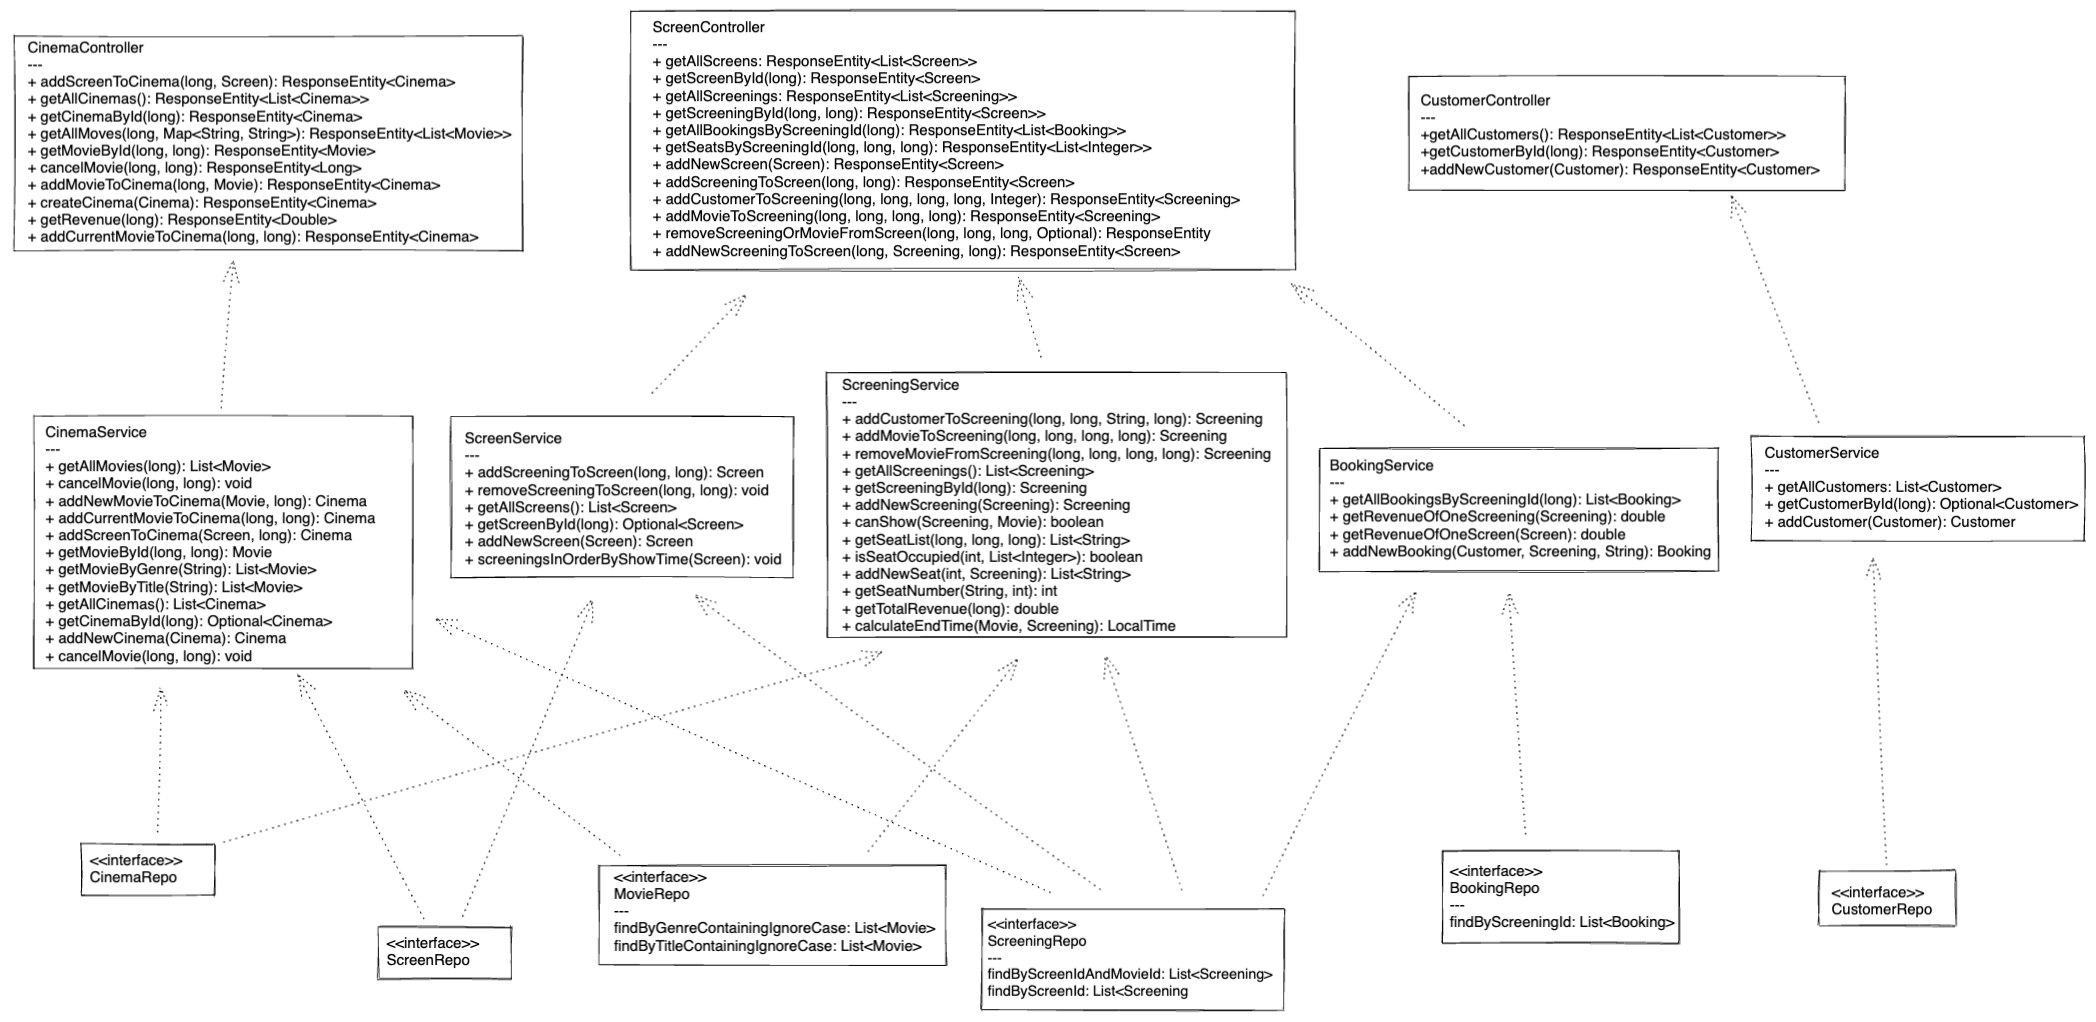
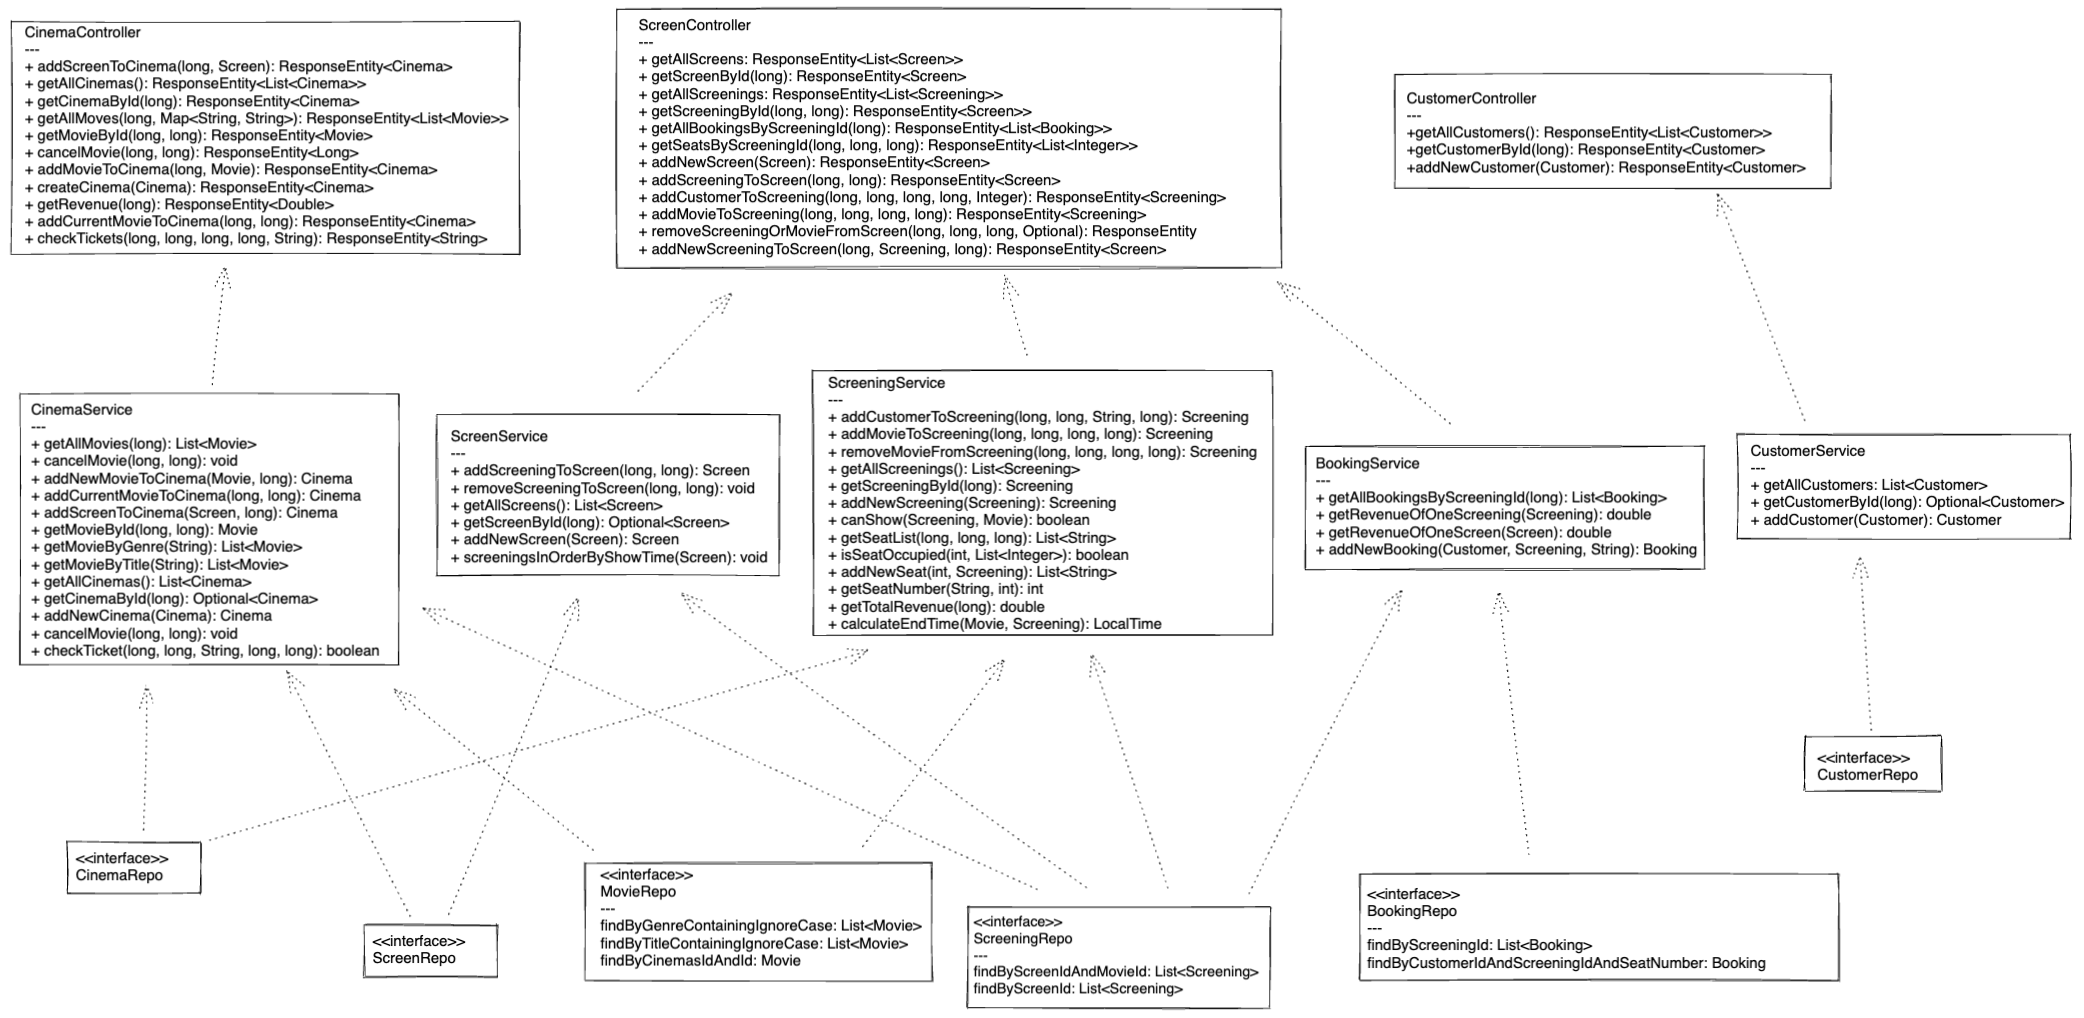
add method to authenticate a ticket

diff --git a/src/main/java/com/example/cinema_project/services/CinemaService.java b/src/main/java/com/example/cinema_project/services/CinemaService.java
@@ -1,13 +1,7 @@
 package com.example.cinema_project.services;
 
-import com.example.cinema_project.models.Cinema;
-import com.example.cinema_project.models.Movie;
-import com.example.cinema_project.models.Screen;
-import com.example.cinema_project.models.Screening;
-import com.example.cinema_project.repositories.CinemaRepository;
-import com.example.cinema_project.repositories.MovieRepository;
-import com.example.cinema_project.repositories.ScreenRepository;
-import com.example.cinema_project.repositories.ScreeningRepository;
+import com.example.cinema_project.models.*;
+import com.example.cinema_project.repositories.*;
 import org.springframework.beans.factory.annotation.Autowired;
 import org.springframework.stereotype.Service;
 
@@ -28,6 +22,9 @@ public class CinemaService {
 
     @Autowired
     ScreeningRepository screeningRepository;
+
+    @Autowired
+    BookingRepository bookingRepository;
 
     public List<Movie> getAllMovies(long cinemaId){
         Cinema cinema= cinemaRepository.findById(cinemaId).get();
@@ -122,5 +119,15 @@ public class CinemaService {
     public Cinema addNewCinema(Cinema cinema){
         cinemaRepository.save(cinema);
         return cinema;
+    }
+
+    public boolean checkTicket(long screeningId, long customerId, String seatNumber, long cinemaId, long movieId){
+        Optional<Screening> screening = screeningRepository.findById(screeningId);
+        if(!screening.isPresent()) return false;
+        Booking booking = bookingRepository.findByCustomerIdAndScreeningIdAndSeatNumber(customerId,screeningId,seatNumber.toUpperCase());
+        Movie movie = movieRepository.findByCinemasIdAndId(cinemaId, movieId);
+        Movie providedMovie = screening.get().getMovie();
+        if(movie != null && movie.equals(providedMovie) && booking != null) return true;
+        else return false;
     }
 }

diff --git a/src/main/java/com/example/cinema_project/controllers/CinemaController.java b/src/main/java/com/example/cinema_project/controllers/CinemaController.java
@@ -70,6 +70,21 @@ public class CinemaController {
         }
     }
 
+    @GetMapping("/{cinemaId}/authentication/{movieId}")
+    public ResponseEntity<String> checkTickets(
+            @PathVariable long cinemaId,
+            @PathVariable long movieId,
+            @RequestParam long customerId,
+            @RequestParam long screeningId,
+            @RequestParam String seat
+    ){
+        if(cinemaService.checkTicket(screeningId,customerId,seat,cinemaId,movieId)){
+            return new ResponseEntity<>("The ticket is authorised!", HttpStatus.OK);
+        }else{
+            return new ResponseEntity<>("Fake ticket!", HttpStatus.NOT_FOUND);
+        }
+    }
+
     @GetMapping("/{id}/screens")
     public ResponseEntity<List<Screen>> getAllScreensFromCinema(@PathVariable long id){
         List<Screen> screens = cinemaService.getAllScreens(id);

diff --git a/src/main/java/com/example/cinema_project/repositories/BookingRepository.java b/src/main/java/com/example/cinema_project/repositories/BookingRepository.java
@@ -8,4 +8,6 @@ import java.util.List;
 public interface BookingRepository extends JpaRepository<Booking, Long> {
 
     List<Booking> findByScreeningId(long screeningId);
+
+    Booking findByCustomerIdAndScreeningIdAndSeatNumber(long customerId, long screeningId, String seatNumber);
 }

diff --git a/src/main/java/com/example/cinema_project/repositories/MovieRepository.java b/src/main/java/com/example/cinema_project/repositories/MovieRepository.java
@@ -9,4 +9,6 @@ public interface MovieRepository extends JpaRepository<Movie, Long> {
     List<Movie> findByGenreContainingIgnoreCase(String genre);
 
     List<Movie> findByTitleContainingIgnoreCase(String title);
+
+    Movie findByCinemasIdAndId(long cinemaId, long id);
 }

diff --git a/README.md b/README.md
@@ -95,6 +95,7 @@ What Yongran has expanded on this API:
 - Add `showTime` and `endTime` properties in `Screening` model
 - Create `Booking` model to handle price for a ticket and seats
 - Add `revenue` property in cinema
+- Authenticate a ticket
 
 It allows users to manage revenue, manage multiple cinemas, cancel movies for one cinema, manage show time and end time for movies and book movies' tickets with chosen seats.
 
@@ -114,7 +115,8 @@ Notes:
 |`.../cinemas/movies/{id}`|`GET`| Get Movie By ID|
 |`.../cinemas/{id}/movies?genre={genre}`|`GET`| Get Movie By Genre |
 |`.../cinemas/{id}/movies?title={title}`|`GET`| Get Movie By Title|
-|`.../cinemas/{id}/revenue`|`GET`| Get Total Revenue|
+|`.../cinemas/{id}/revenue`|`GET`| Get Total Revenue |
+|`.../cinemas/{cinemaId}/authentication/{movieId}?customerId={customerId}&screeningId={screeningId}&seat={seat}`|`GET`| Authenticate Ticket |
 | `.../cinemas/{id}/movies/{movieId}`  | `DELETE`  | Cancel Movie  |
 | `.../cinemas/{id}/movies`  | `POST`  | Add Movie To Cinema  |
 | `.../cinemas/{id}/movies/{movieId}`  | `POST`  | Add Existed Movie To Cinema  |
@@ -142,7 +144,6 @@ Notes:
 
 Here are a few ideas on how we would like to expand on this API:
 - Create `Genre` table to list movies’ genres in one cinema
-- Authentication
 
 
 ## Acknowledgements
